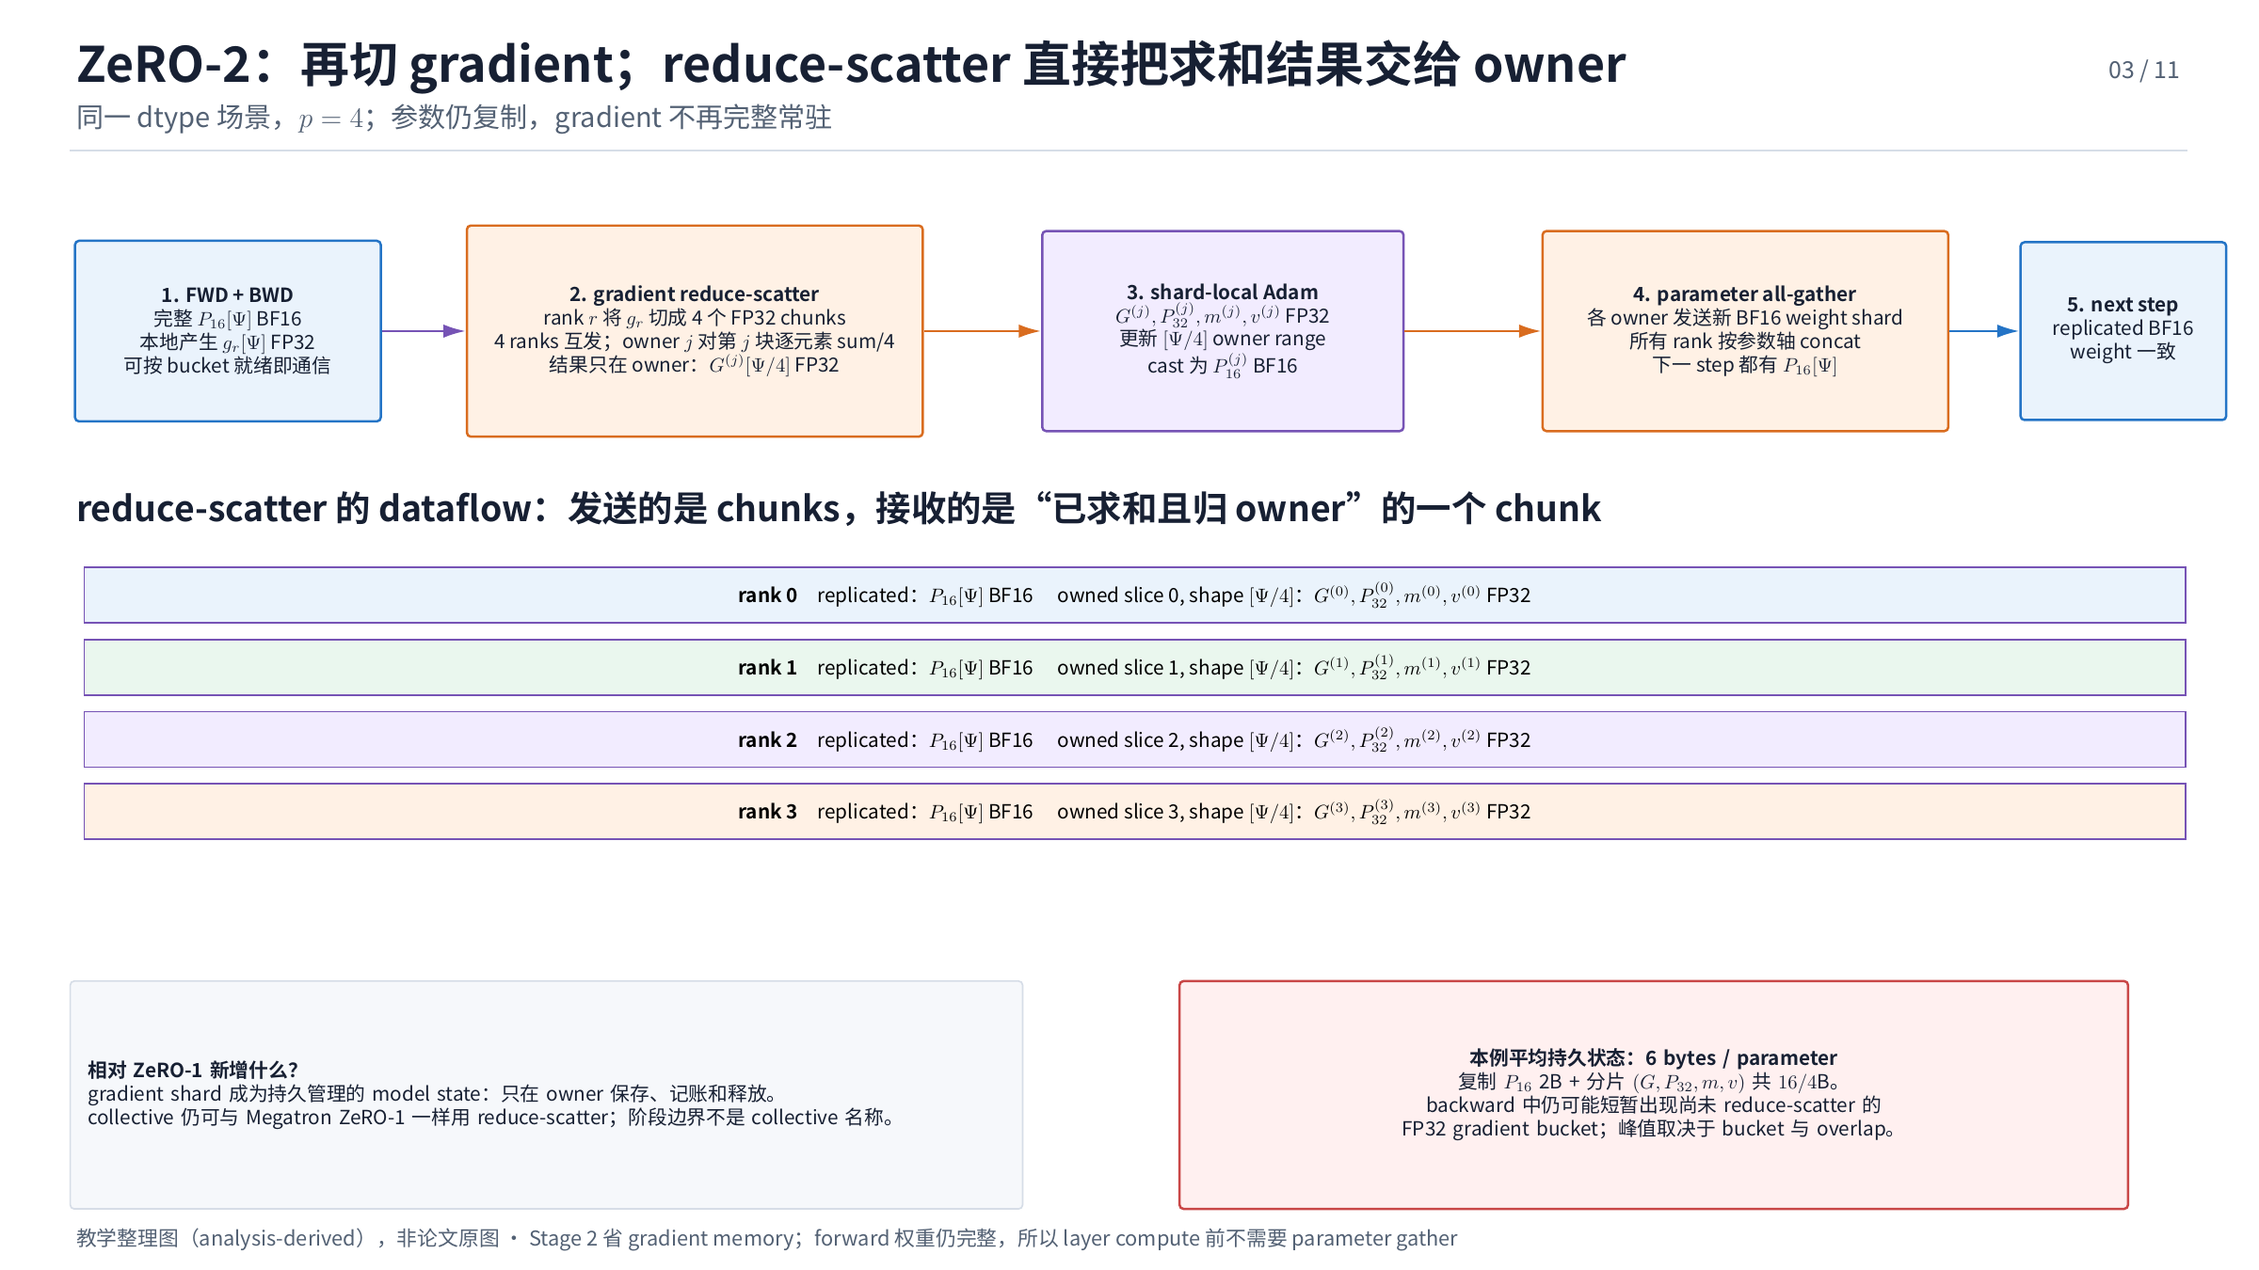
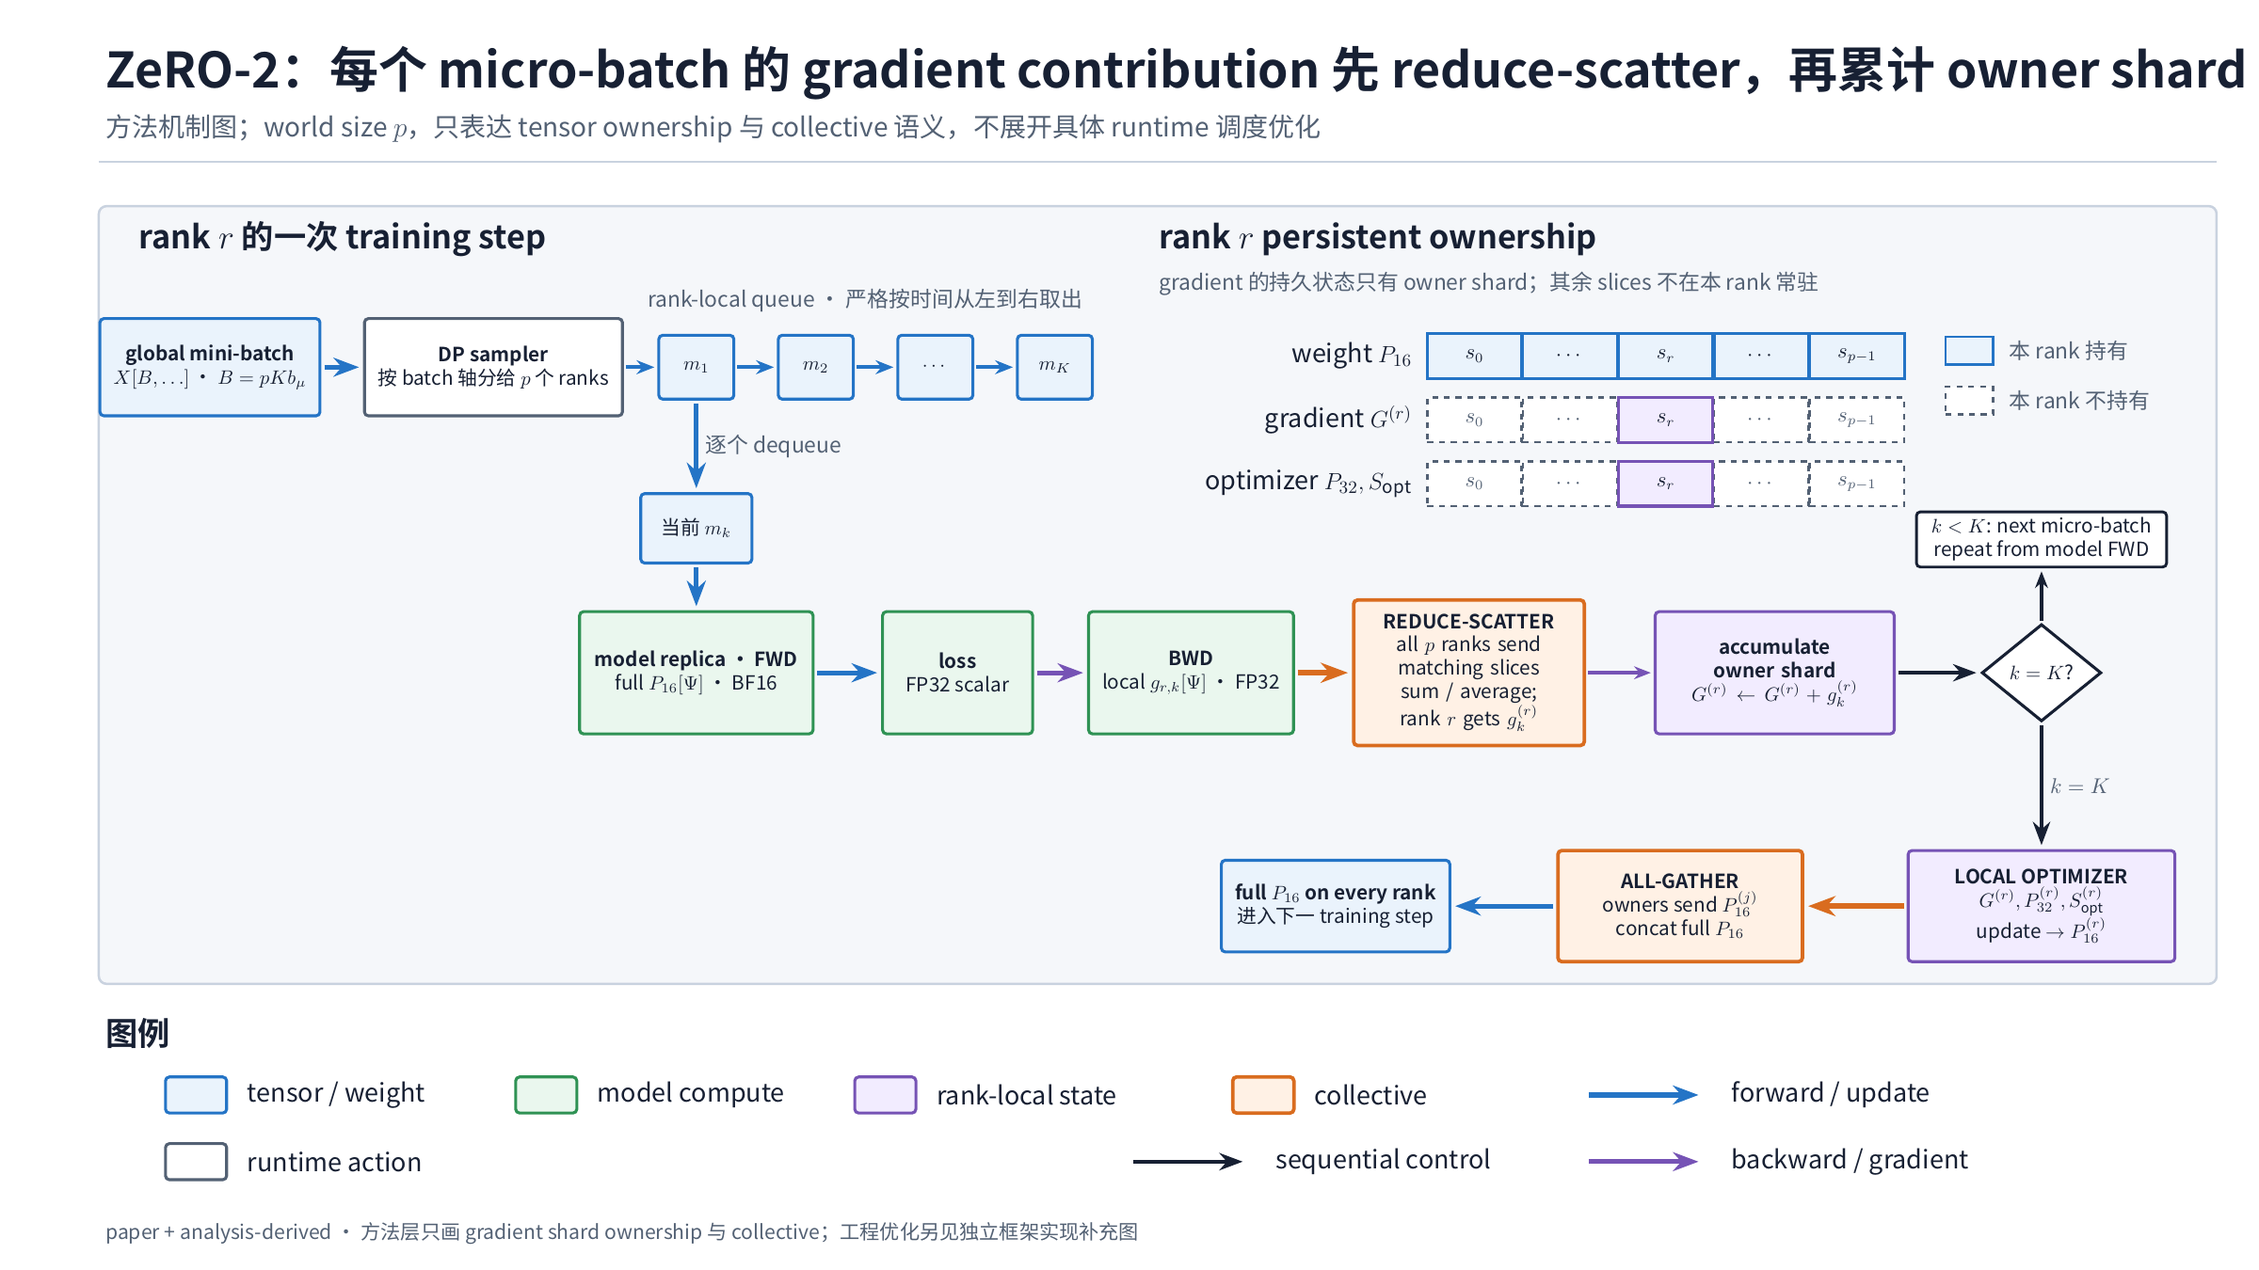
docs(parallelism): refresh DP and ZeRO workflows

diff --git a/01_ai_infra/parallelism/surveys/parallel-partitioning-taxonomy.md b/01_ai_infra/parallelism/surveys/parallel-partitioning-taxonomy.md
@@ -68,23 +68,23 @@ canonical: true
 
 ## 3. DP 与 ZeRO/FSDP：batch 和模型状态是两条轴
 
-下面先固定一个便于核算的混合精度训练场景：计算参数、输入与 activation 使用 BF16；loss、gradient accumulation、master weight 和 Adam moments 使用 FP32。它是本节用于比较 ownership 的共同基线，不代表所有框架都强制使用这些 dtype。
+下面先固定一个便于核算的混合精度训练场景：计算参数、输入与 activation 使用 BF16；loss、gradient accumulation、master weight 和 optimizer state 使用 FP32。它是本节用于比较 ownership 的共同基线，不限定具体 optimizer，也不代表所有框架都强制使用这些 dtype。
 
 ![普通 DP 混合精度训练 workflow 与 dataflow|1349](../assets/surveys/parallel-partitioning-taxonomy/dp-training-workflow.png)
 
-> 普通 DP 基线：同一 rank 内的 micro-batches 沿单条时间线顺序执行。$m_k$ 完成 forward/backward 并产生 $g_{r,k}$ 后，先把它写入 FP32 buffer，再开始 $m_{k+1}$；buffer 从 $G_r^{[0]}=0$ 依次变为 $G_r^{[1]}$、$G_r^{[2]}$，直至 $G_r^{[K]}=\sum_k g_{r,k}$，之后才执行一次 all-reduce 和 Adam update。
+> 普通 DP 基线：DP sampler 是样本分发动作，不是 tensor；它为 rank $r$ 生成严格按时间取出的队列 $m_1,m_2,\ldots,m_K$。$m_k$ 完成 forward/backward 并产生 $g_{r,k}$ 后，先写入同一个 FP32 accumulation buffer；$k<K$ 时再取 $m_{k+1}$，$k=K$ 时才对完整 gradient 执行一次 all-reduce。每个 rank 随后用完整 $G$、$P_{32}$ 与 $S_{\mathrm{opt}}$ 更新自己的完整 BF16 compute weight。
 
 ![ZeRO-1 训练 workflow 与 dataflow|1349](../assets/surveys/parallel-partitioning-taxonomy/zero1-training-workflow.png)
 
-> ZeRO-1：同一 rank 内也严格按 $m_1 \rightarrow m_2 \rightarrow \cdots \rightarrow m_K$ 执行；每次 backward 结束后，先把 $g_{r,k}$ 加入完整 local FP32 buffer，再启动下一个 micro-batch。第 $K$ 次累加完成后，Megatron Core 的 distributed optimizer 才直接 reduce-scatter 到 optimizer owner。owner 只更新自己的 FP32 master weight 与 Adam moments，最后 all-gather 更新后的 BF16 parameter shards。reduce-scatter 等价于 all-reduce 后取 local slice，但不必在每卡落地完整的已归约 gradient。对同样大小的 gradient，ring reduce-scatter 的每 rank payload 约为 $(p-1)q\Psi/p$，是 ring all-reduce 的一半；整步还需另计 parameter all-gather。
+> ZeRO-1：micro-batches 仍严格按 $m_1 \rightarrow m_2 \rightarrow \cdots \rightarrow m_K$ 执行，每次 backward 都把 $g_{r,k}$ 加入完整 local FP32 buffer。第 $K$ 次累加完成后，reduce-scatter 对各 rank 的匹配 slices 求和或平均，并把结果直接交给对应 owner；rank $r$ 只更新自己的 $P_{32}^{(r)}$ 与 $S_{\mathrm{opt}}^{(r)}$，再通过 parameter all-gather 恢复每个 rank 的完整 $P_{16}$。reduce-scatter 在语义上等价于 all-reduce 后取 local slice，但无需在每卡落地完整的已归约 gradient。对同样大小的 gradient，ring reduce-scatter 的每 rank payload 约为 $(p-1)q\Psi/p$，是 ring all-reduce 的一半；整步还需另计 parameter all-gather。
 
 ![ZeRO-2 训练 workflow 与 dataflow|1349](../assets/surveys/parallel-partitioning-taxonomy/zero2-training-workflow.png)
 
-> ZeRO-2：继续让每个 owner 只接收跨 rank 求和后的 FP32 gradient shard，并进一步把 gradient 的分片存储与生命周期纳入模型状态契约。它与上述 Megatron ZeRO-1 路径的区别不是“首次使用 reduce-scatter”，而是 gradient 是否作为持久分片状态管理。
+> ZeRO-2：每个 $m_k$ 的 backward 先产生 local gradient contribution $g_{r,k}$，随即通过 reduce-scatter 对匹配 slices 求和或平均；rank $r$ 只收到 $g_k^{(r)}$，并把它累加到持久的 owner shard $G^{(r)}$。$k<K$ 时回到下一个 micro-batch，$k=K$ 时才由 owner-local optimizer 更新参数 shard，随后 parameter all-gather 恢复完整 BF16 compute weight。与上图 ZeRO-1 的区别是：ZeRO-1 在 micro-batch 边界保留完整 local accumulation buffer，ZeRO-2 的持久 gradient 状态始终只有 owner shard。
 
 ![ZeRO-3 训练 workflow 与 dataflow|1349](../assets/surveys/parallel-partitioning-taxonomy/zero3-training-workflow.png)
 
-> ZeRO-3：BF16 compute weight 也分片；每个 layer 在 forward 前 all-gather，若完整参数已释放则 backward 前再次 all-gather，gradient 随后 reduce-scatter 回 owner。
+> ZeRO-3：BF16 compute weight 也分片。虚线 `MODEL LAYERS × L` 表示同一个 $m_k$ 顺序经过全部 layers；每个 layer 在 forward 前 all-gather 出 temporary full $P_{16,\ell}$，若 forward 后已释放，则 backward 前再次 all-gather。FWD/BWD 消费完成后的 release/reshard 是异步生命周期侧支，不在训练主数据流中。图在方法层把完成全部 $L$ 层后的 gradient reduce-scatter 画在虚框外；具体 runtime 如何流式调度通信属于独立实现补充。
 
 > 教学整理图，非论文证据。论文机制与实验见 [ZeRO](../papers/zero.md#核心机制)。
 
@@ -92,8 +92,8 @@ canonical: true
 
 - **全局对象 / local layout**：DP 沿 $B$ 切分，每 rank 处理 $B/p$ 样本，但持完整 parameters、gradients 和 optimizer states。
 - **复制对象**：普通 DP 复制全部模型状态；ZeRO 按 Stage 1 optimizer、Stage 2 gradients、Stage 3 parameters 的顺序消除复制。
-- **恢复语义**：DP 在 optimizer step 前 all-reduce gradients；ZeRO 的分布式 optimizer 可直接 reduce-scatter，让每个 owner 收到全局 gradient 的对应 slice。Megatron Core 的 ZeRO-1 路径已经这样实现；ZeRO-2 进一步分片 gradient 的存储与生命周期。ZeRO-3 在 layer 使用参数前 all-gather，之后释放或重新分片。
-- **通信频率 / 载荷**：ring all-reduce 一份 $q\Psi$ gradient 时，每 rank 算法 payload 约 $2(p-1)q\Psi/p$ bytes/step，**analysis-derived**。Stage 3 还按 layer/bucket 引入 parameter all-gather，频率通常显著高于普通 DP。
+- **恢复语义**：DP 在 optimizer step 前 all-reduce gradients；ZeRO 可用 reduce-scatter 让每个 owner 只收到全局 gradient 的对应 slice。上图 ZeRO-1 在完整 local accumulation 后 reduce-scatter；ZeRO-2 对每个 micro-batch 的 contribution reduce-scatter 后累计 owner shard；ZeRO-3 在 layer 使用参数前 all-gather temporary full weight，消费后释放或重新分片。
+- **通信频率 / 载荷**：ring all-reduce 一份 $q\Psi$ gradient 时，每 rank 算法 payload 约 $2(p-1)q\Psi/p$ bytes/step，**analysis-derived**。Stage 3 还会在每个 layer 的参数使用窗口引入 parameter all-gather，频率通常显著高于普通 DP；具体流式调度不属于方法原理图。
 - **模型状态内存**：忽略 padding、metadata 和临时 buffer，一份 parameter 与 gradient 均按 $q\Psi$、optimizer 为 $\kappa q\Psi$ 时，平均每 rank 状态为：
 
 $$
@@ -107,9 +107,9 @@ $$
 
 以上为 **analysis-derived** 的平均状态式；mixed precision 应把各状态 dtype 分开相加。ZeRO 论文自己的口径与假设见[状态公式](../papers/zero.md#核心公式与符号体系)。
 
-- **activation / workspace**：DP activation 随 local batch 约降至 $1/p$；ZeRO-3 峰值还含当前 layer 完整参数、prefetch bucket、live parameter window、通信 workspace 与 allocator fragmentation。因此平均 $M_{\mathrm{Z3}}$ 不是 OOM 判据。
+- **activation / workspace**：DP activation 随 local batch 约降至 $1/p$；ZeRO-3 峰值还含当前 layer 的 temporary full weight、通信 workspace 与 allocator fragmentation。因此平均 $M_{\mathrm{Z3}}$ 不是 OOM 判据；prefetch 或 live-window 策略属于具体 runtime 的实现补充。
 - **有效计算**：固定全局 $B$ 时，每 rank forward/backward 约为单卡 workload 的 $1/p$；ZeRO 不减少全局 FLOPs。
-- **额外项**：ZeRO/FSDP 可能增加 prefetch、reshard、CPU/NVMe offload 和小 bucket 启动成本。
+- **额外项**：ZeRO/FSDP 需要 temporary gather、reshard/release 和额外通信 workspace；prefetch、CPU/NVMe offload 与通信分组是具体实现扩展。
 - **推理差异**：replica DP 扩请求吞吐；单请求 decode 不因 DP 降低延迟。参数分片推理会把 weight gather 放入 token critical path，必须与 cache、prefill/decode 批处理单独评估。
 - **失效条件**：参数 gather 无法被 layer compute 遮住、瞬时 gather buffer OOM、跨节点 bandwidth 主导，或固定 global batch 下 local batch 太小。
 

diff --git a/01_ai_infra/parallelism/evidence/figure-inventory.md b/01_ai_infra/parallelism/evidence/figure-inventory.md
@@ -44,14 +44,14 @@ canonical: true
 
 以下 11 张 PNG 全部由 [并行切分方法体系](../surveys/parallel-partitioning-taxonomy.md) 独占，使用 TikZ 排版并以 `2400×1350` 输出。它们是 analysis-derived 教学整理图，不是原论文 Figure/Table，不计入论文视觉证据数量。TikZ 源码、PDF、过程渲染、contact sheet 与像素检查保留在 process workspace。
 
-2026-08-03 的 `1.7.0` 修订用每 rank 单条时间线替换 `1.6.0` 的并列支路：`G_r^{[0]} -> m_1 FWD/BWD -> G_r^{[1]} -> m_2 FWD/BWD -> G_r^{[2]} -> ... -> m_K FWD/BWD -> G_r^{[K]}`，使“累计完成后才开始下一个 micro-batch”由箭头拓扑显式表达。`1.6.0` 曾显式列出 $m_1$、$m_2$、$m_K$ 及累计状态，但并列布局容易被误读为同一 rank 内并发，现已替换。`1.5.0` 修订依据 Megatron Core 固定 commit `b19b1f47cf7e289607f3be480c5f06c6ada25b16` 将 ZeRO-1 修正为 gradient reduce-scatter、owner-local update 和 parameter all-gather。`1.4.0` 修订把 DP/ZeRO 汇总图拆成普通 DP、ZeRO-1、ZeRO-2、ZeRO-3 四张 workflow。2026-08-02 的 `1.3.0` 修订把原 SVG 重绘为 TikZ。`1.2.0` 参考的 [Colossal-AI Parallelism](https://colossalai.org/docs/concepts/paradigms_of_parallelism) 只作为视觉组织参考；tensor 关系、成本注释和边界条件来自本领域 canonical Paper/Topic/Evidence 的综合分析。
+2026-08-03 的 `1.8.0` 修订将普通 DP 与 ZeRO-1/2/3 更新为框架中立的方法机制图：sampler 与 async release 使用独立 runtime-action 语义；weight、gradient 与 optimizer state 显式展示 ownership；ZeRO-2 删除 bucket 等实现优化；ZeRO-3 用 `MODEL LAYERS × L` 标出 layer-local 重复范围，并把 temporary BF16 weight、FWD/BWD 输入依赖和异步 release 侧支画入 workflow。原理图的可见区域不再包含 framework、commit、配置或源码符号。`1.7.0` 修订用每 rank 单条时间线替换 `1.6.0` 的并列支路，使 micro-batch 顺序由箭头拓扑显式表达。`1.6.0` 曾显式列出 $m_1$、$m_2$、$m_K$ 及累计状态，但并列布局容易被误读为同一 rank 内并发，现已替换。`1.5.0` 将 ZeRO-1 修正为 gradient reduce-scatter、owner-local update 和 parameter all-gather。`1.4.0` 修订把 DP/ZeRO 汇总图拆成普通 DP、ZeRO-1、ZeRO-2、ZeRO-3 四张 workflow。2026-08-02 的 `1.3.0` 修订把原 SVG 重绘为 TikZ。`1.2.0` 参考的 [Colossal-AI Parallelism](https://colossalai.org/docs/concepts/paradigms_of_parallelism) 只作为视觉组织参考；tensor 关系、成本注释和边界条件来自本领域 canonical Paper/Topic/Evidence 的综合分析。
 
 | Owner | Asset | 用途 | 分辨率 | 声明 | QA |
 |---|---|---|---|---|---|
-| [并行切分方法体系](../surveys/parallel-partitioning-taxonomy.md) | [普通 DP](../assets/surveys/parallel-partitioning-taxonomy/dp-training-workflow.png) | $K$ 个 micro-batches、BF16 compute、FP32 gradient accumulation、单次 gradient all-reduce、replicated Adam update | `2400×1350` | 教学整理图 / 非论文证据 | passed：LuaLaTeX、原分辨率逐图检查、文字/箭头/dtype/micro-batch/collective 语义 QA，2026-08-03 |
-| [并行切分方法体系](../surveys/parallel-partitioning-taxonomy.md) | [ZeRO-1](../assets/surveys/parallel-partitioning-taxonomy/zero1-training-workflow.png) | $K$ 个 micro-batches、完整 local FP32 gradient buffer、gradient reduce-scatter、owner-local Adam、BF16 parameter all-gather | `2400×1350` | 教学整理图 / 非论文证据 | passed：LuaLaTeX、原分辨率逐图检查、文字/箭头/dtype/owner/RS/AG 语义 QA，2026-08-03 |
-| [并行切分方法体系](../surveys/parallel-partitioning-taxonomy.md) | [ZeRO-2](../assets/surveys/parallel-partitioning-taxonomy/zero2-training-workflow.png) | FP32 gradient reduce-scatter、owner-local Adam、BF16 parameter all-gather 与 bucket 峰值 | `2400×1350` | 教学整理图 / 非论文证据 | passed：LuaLaTeX、原分辨率逐图检查、文字/箭头/dtype/chunk/collective 语义 QA，2026-08-03 |
-| [并行切分方法体系](../surveys/parallel-partitioning-taxonomy.md) | [ZeRO-3](../assets/surveys/parallel-partitioning-taxonomy/zero3-training-workflow.png) | layer-wise BF16 parameter gather、forward/backward buffer 生命周期、FP32 gradient reduce-scatter 与 shard-local optimizer | `2400×1350` | 教学整理图 / 非论文证据 | passed：LuaLaTeX、原分辨率逐图检查、文字/箭头/dtype/lifecycle/collective 语义 QA，2026-08-03 |
+| [并行切分方法体系](../surveys/parallel-partitioning-taxonomy.md) | [普通 DP](../assets/surveys/parallel-partitioning-taxonomy/dp-training-workflow.png) | 顺序执行 $K$ 个 micro-batches、BF16 compute、FP32 gradient accumulation、单次 gradient all-reduce、replicated optimizer update | `2400×1350` | 教学整理图 / 非论文证据 | passed：LuaLaTeX、原分辨率逐图检查、节点类型/箭头/dtype/micro-batch/collective 语义 QA，2026-08-03 |
+| [并行切分方法体系](../surveys/parallel-partitioning-taxonomy.md) | [ZeRO-1](../assets/surveys/parallel-partitioning-taxonomy/zero1-training-workflow.png) | 完整 local FP32 gradient accumulation、gradient reduce-scatter、owner-local optimizer、BF16 parameter all-gather | `2400×1350` | 教学整理图 / 非论文证据 | passed：LuaLaTeX、原分辨率逐图检查、框架中立可见内容、owner/RS/AG 语义 QA，2026-08-03 |
+| [并行切分方法体系](../surveys/parallel-partitioning-taxonomy.md) | [ZeRO-2](../assets/surveys/parallel-partitioning-taxonomy/zero2-training-workflow.png) | 每个 micro-batch 的 FP32 gradient reduce-scatter、owner-shard accumulation、owner-local optimizer 与 BF16 parameter all-gather | `2400×1350` | 教学整理图 / 非论文证据 | passed：LuaLaTeX、原分辨率逐图检查、无 bucket 实现细节、箭头/ownership/collective 语义 QA，2026-08-03 |
+| [并行切分方法体系](../surveys/parallel-partitioning-taxonomy.md) | [ZeRO-3](../assets/surveys/parallel-partitioning-taxonomy/zero3-training-workflow.png) | `MODEL LAYERS × L`、temporary BF16 weight、FWD/BWD 输入依赖、异步 release 侧支、gradient reduce-scatter 与 shard-local optimizer | `2400×1350` | 教学整理图 / 非论文证据 | passed：LuaLaTeX、原分辨率逐图检查、节点类型/文字覆盖/箭头/lifecycle/collective 频率 QA，2026-08-03 |
 | [并行切分方法体系](../surveys/parallel-partitioning-taxonomy.md) | [TP](../assets/surveys/parallel-partitioning-taxonomy/tensor-parallel-block.png) | column-sharded weight -> local GeLU -> row-sharded weight -> partial sum all-reduce | `2400×1350` | 教学整理图 / 非论文证据 | passed after 11-page renumber：原分辨率逐图检查，2026-08-03 |
 | [并行切分方法体系](../surveys/parallel-partitioning-taxonomy.md) | [PP](../assets/surveys/parallel-partitioning-taxonomy/pipeline-parallel-schedule.png) | layer ownership、micro-batch activation/gradient P2P 与 fill-drain bubble | `2400×1350` | 教学整理图 / 非论文证据 | passed after 11-page renumber：原分辨率逐图检查，2026-08-03 |
 | [并行切分方法体系](../surveys/parallel-partitioning-taxonomy.md) | [EP](../assets/surveys/parallel-partitioning-taxonomy/expert-parallel-routing.png) | token row permutation、variable local shape、A2A dispatch/combine 与 hot rank | `2400×1350` | 教学整理图 / 非论文证据 | passed after 11-page renumber：原分辨率逐图检查，2026-08-03 |
